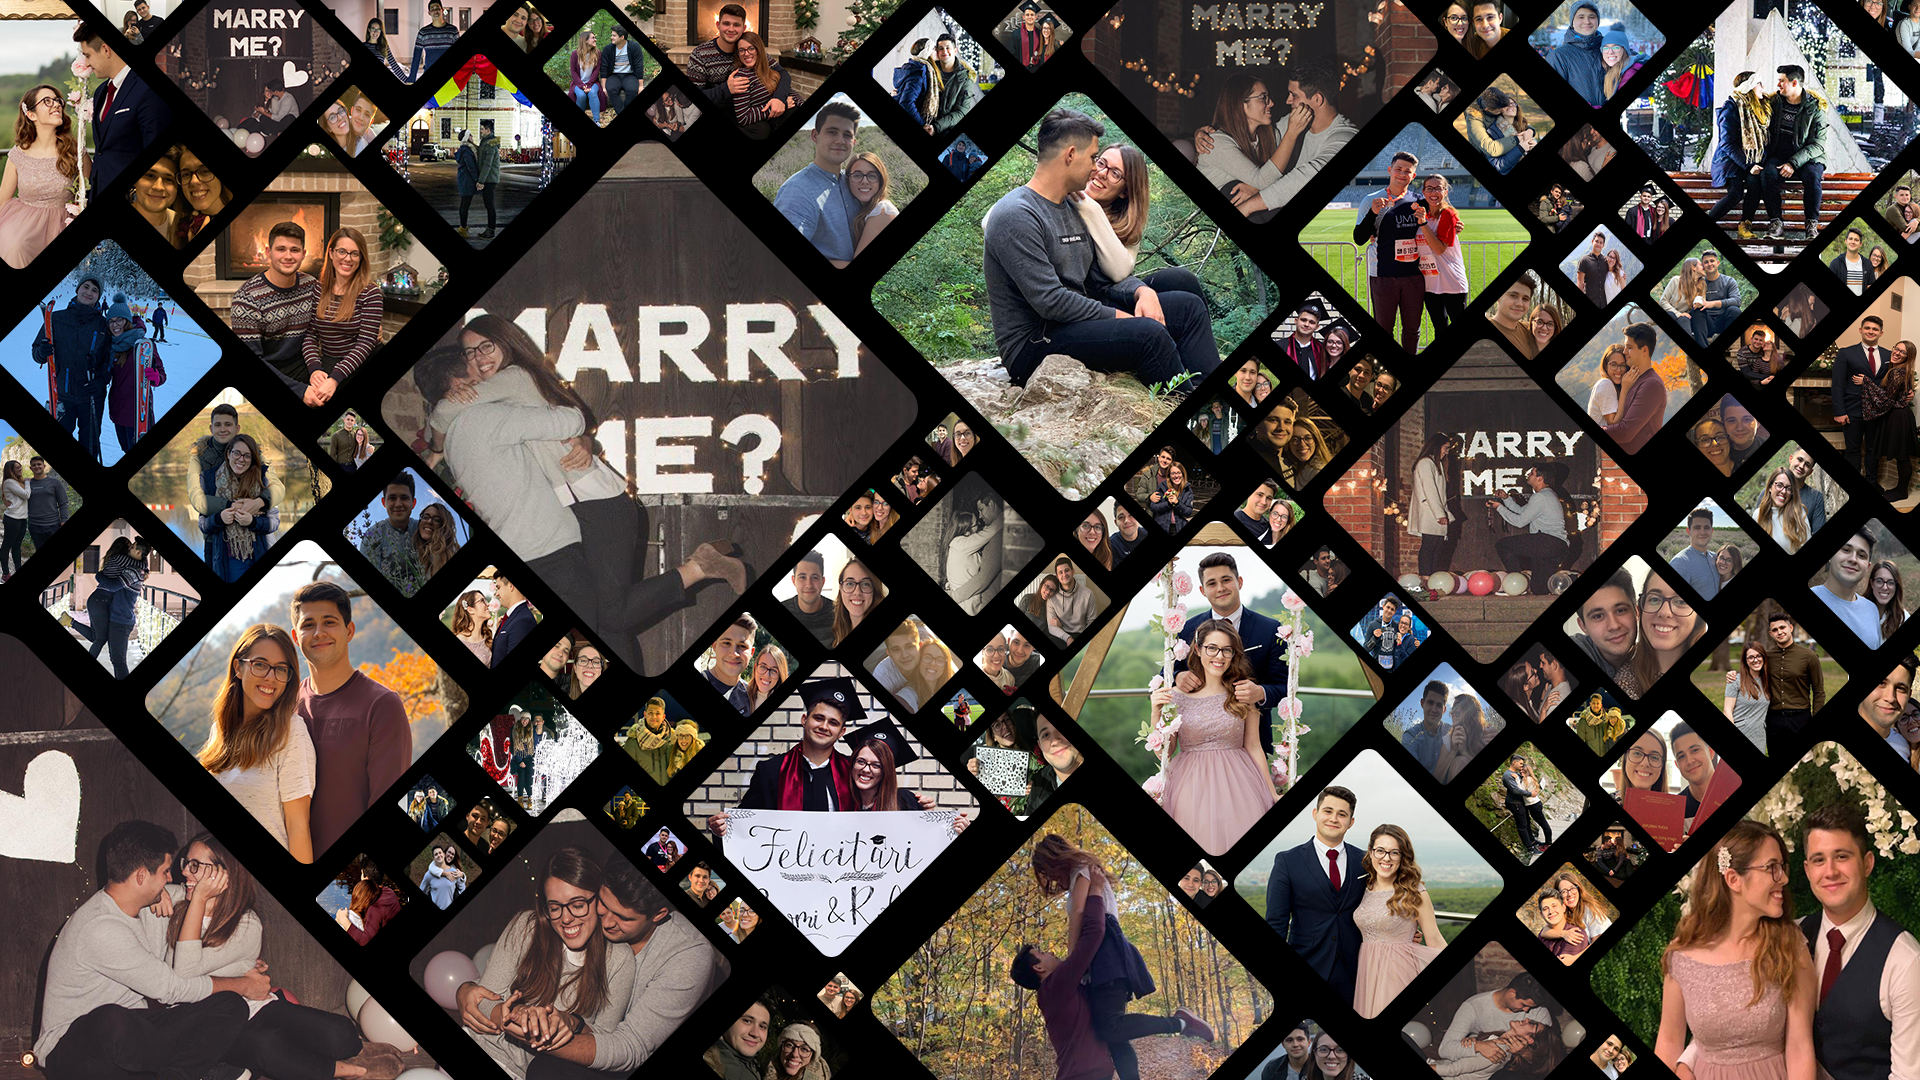
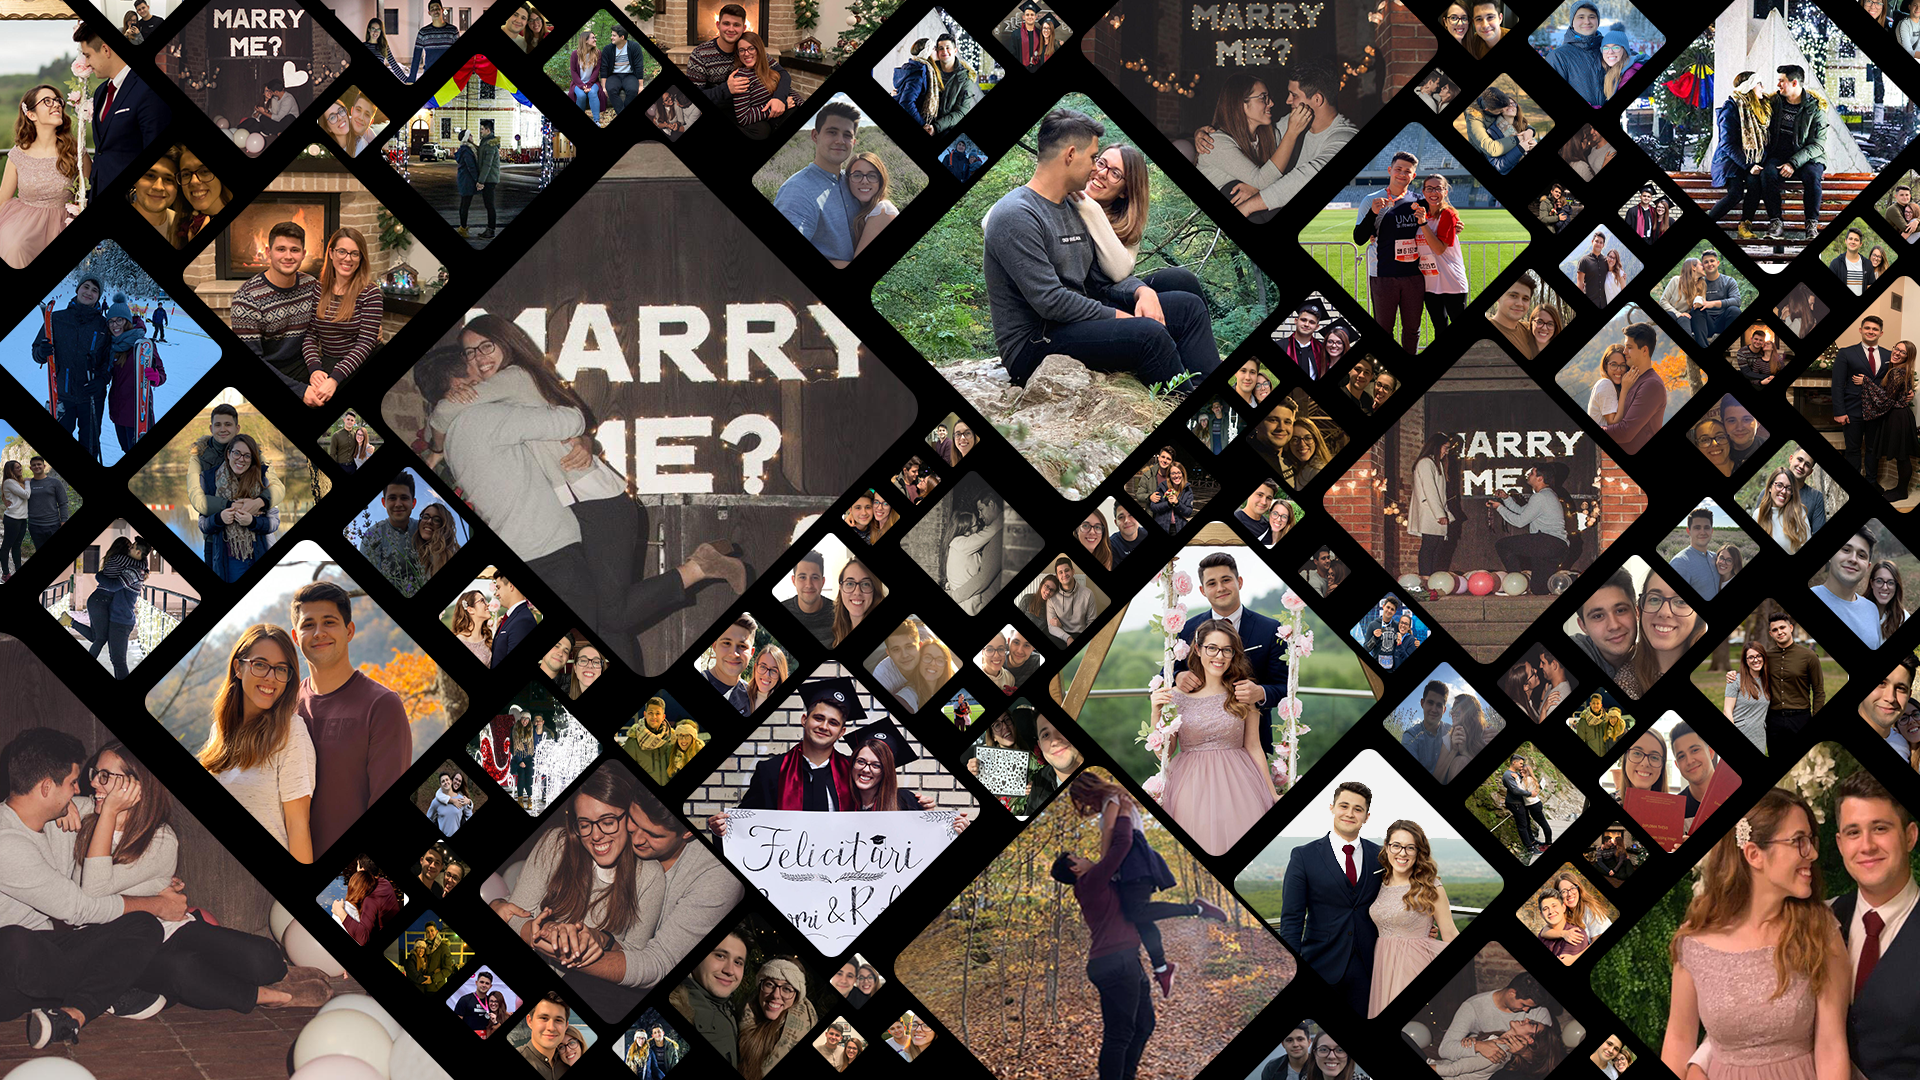
Background-responsive

Changed region(s): [[0.0, 0.6417, 0.7812, 1.0], [0.8125, 0.6722, 1.0, 1.0]]

diff --git a/src/styles.scss b/src/styles.scss
@@ -45,7 +45,12 @@ body:before {
     background: linear-gradient(
                      rgba(20,20,20, .65), 
                      rgba(20,20,20, .65  )),
-                     url("./app/Images/background-purple.png");
+                     url("./app/Images/background-black.png")
+                     no-repeat top left fixed;
+    -webkit-background-size: cover;
+    -moz-background-size: cover;
+    -o-background-size: cover;
+    background-size: cover;
     width: 100%;
     height: 100%;
     position: absolute;
